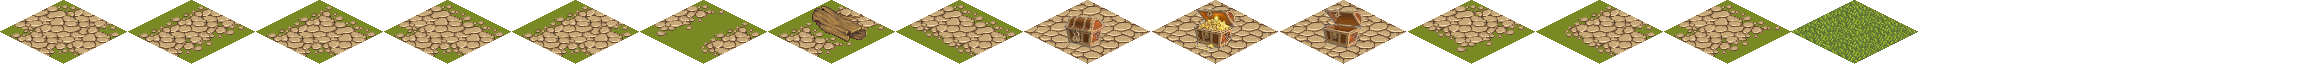
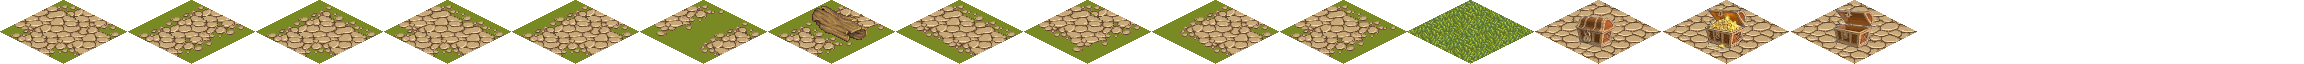
cards adicionados

Changed region(s): [[0.4375, 0.0312, 0.8438, 0.9688]]

diff --git a/Jogo_Gb/GB/Sabertooth/main.cpp b/Jogo_Gb/GB/Sabertooth/main.cpp
@@ -12,6 +12,7 @@
 #include <string>
 #include "stb_image.h"
 #include <vector>
+#include <list> 
 
 using namespace std;
 
@@ -170,19 +171,33 @@ int main() {
 	int x = 0;
 
 	float tileMap[11][11];
+	int tabuleiro[11][11];
+	int possivel[11][11];
 	srand(time(NULL));
 	for (int y = 0; y < qtdX; y++) {
 		for (int x = 0; x < qtdX; x++)
 		{
-			tileMap[y][x] = 14;
+			tileMap[y][x] = 11;
+			tabuleiro[y][x] = 0;
+			possivel[y][x] = 0;
 		}
 	}
-	tileMap[1][5] = 0;
-	tileMap[9][5] = 8;
-	tileMap[9][2] = 8;
-	tileMap[9][8] = 8;
+	possivel[1][4] = 1;
+	possivel[1][6] = 1;
+	possivel[0][5] = 1;
+	possivel[2][5] = 1;
 
-	vector<string> tabuleiro;
+	tileMap[1][5] = 0;
+	tileMap[9][5] = 12;
+	tileMap[9][2] = 12;
+	tileMap[9][8] = 12;
+
+	tabuleiro[1][5] = 1;
+	tabuleiro[9][5] = 1;
+	tabuleiro[9][2] = 1;
+	tabuleiro[9][8] = 1;
+
+	
 
 	double xpos = 0;
 	double ypos = 0;
@@ -217,18 +232,12 @@ int main() {
 			
 			for (int y = 0; y < qtdX; y++) {
 				for (int x = 0; x < qtdX; x++) {
-					string strl = std::to_string(y);
-					string strc = std::to_string(x);
-					string strx = std::to_string(x * (RW / 2.0f) + y * (RW / 2.0f));
-					string stry = std::to_string((x * (RH / 2.0f) - y * (RH / 2.0f) + wHeight / 2.0f));
 
-					string strPos("l:" + strl + ";" + "c:" + strc + ";" + "x:" + strx + ";" + "y:" + stry + ";");
-					
-					tabuleiro.push_back(strPos);
-
+					float xi = x * (RW / 2.0f) + y * (RW / 2.0f);
+					float yi = (x * (RH / 2.0f) - y * (RH / 2.0f) + wHeight / 2.0f);
 
 					glm::mat4 transform = glm::mat4(1.0f);
-					transform = glm::translate(transform, glm::vec3((x * (RW / 2.0f) + y * (RW / 2.0f)), ((x * (RH / 2.0f) - y * (RH / 2.0f) + wHeight / 2.0f)), 0.0f));
+					transform = glm::translate(transform, glm::vec3(xi, yi, 0.0f));
 					glUniformMatrix4fv(glGetUniformLocation(shdr, "trans"), 1, GL_FALSE, glm::value_ptr(transform));
 									   
 					float var = tileMap[y][x] * (1.0f / 18.0f);
@@ -248,8 +257,6 @@ int main() {
 					nxPos = 0;
 				}
 			}
-		
-		
 
 		if (glfwGetKey(window, GLFW_KEY_ESCAPE) == GLFW_PRESS)
 			glfwSetWindowShouldClose(window, true);
@@ -259,23 +266,79 @@ int main() {
 			//getting cursor position
 			
 			glfwGetCursorPos(window, &xpos, &ypos);
-			nxPos = (xpos - nyPos * RW / 2) / (RW/ 2);
-			nyPos = (nxPos*RH / 2 + ypos) / (RH );
 
-			//nTotal = nxPos + nyPos * 20;
-			//ypos = wHeight - ypos;
-			int linha = -1*(11-(((xpos / (RW / 2.0f)) + (ypos / (RH / 2.0F)))/2));
-			int coluna =  11-(-(xpos / (RW / 2.0f)) + (ypos / (RH / 2.0F)))/2;
-			
-			bool posI = (coluna == 1 && linha == 5);
-			bool tes1 = (coluna == 9 && linha == 5);
-			bool tes2 = (coluna == 9 && linha == 2);
-			bool tes3 = (coluna == 9 && linha == 8);
+			int mouseLinha = -1 * (11 - (((xpos / (RW / 2.0f)) + (ypos / (RH / 2.0F))) / 2));
+			int mouseColuna = 11 - (-(xpos / (RW / 2.0f)) + (ypos / (RH / 2.0F))) / 2;
 
-			if(!tes1 && !tes2 && !tes3 && !posI)
-				tileMap[coluna][linha] = 5;
+			bool tes1 = (mouseColuna == 9 && mouseLinha == 5);
+			bool tes2 = (mouseColuna == 9 && mouseLinha == 2);
+			bool tes3 = (mouseColuna == 9 && mouseLinha == 8);
 
-			std::cout << "linha: " << linha << " coluna: " << coluna << std::endl;
+			if (!tes1 && !tes2 && !tes3 && tabuleiro[mouseColuna][mouseLinha] == 0 && possivel[mouseColuna][mouseLinha] == 1) {
+				int card = 7;//rand() % 11;
+				tileMap[mouseColuna][mouseLinha] = card;
+				tabuleiro[mouseColuna][mouseLinha] = 1;
+				//card inicial
+				if (card == 0) {
+					possivel[mouseColuna][mouseLinha - 1] = 1;
+					possivel[mouseColuna][mouseLinha + 1] = 1;
+					possivel[mouseColuna + 1][mouseLinha] = 1;
+					possivel[mouseColuna - 1][mouseLinha] = 1;
+				}
+				//car reto y 
+				else if(card == 1) {
+					possivel[mouseColuna-1][mouseLinha] = 1;
+					possivel[mouseColuna+1][mouseLinha] = 1;
+
+					possivel[mouseColuna][mouseLinha - 1] = 0;
+					possivel[mouseColuna][mouseLinha + 1] = 0;
+				}
+				//card vira a direita
+				else if (card == 2) {
+					possivel[mouseColuna][mouseLinha+1] = 1;
+					possivel[mouseColuna - 1][mouseLinha] = 1;
+
+					possivel[mouseColuna + 1][mouseLinha] = 0;
+					possivel[mouseColuna][mouseLinha - 1] = 0;
+				}
+				//card em t para os lados
+				else if (card == 3) {
+					possivel[mouseColuna][mouseLinha + 1] = 1;
+					possivel[mouseColuna][mouseLinha - 1] = 1;
+					possivel[mouseColuna-1][mouseLinha] = 1;
+
+					possivel[mouseColuna + 1][mouseLinha] = 0;
+				}
+				//card em t em y
+				else if (card == 4) {
+					possivel[mouseColuna][mouseLinha + 1] = 1;
+					possivel[mouseColuna][mouseLinha - 1] = 1;
+					possivel[mouseColuna - 1][mouseLinha] = 1;
+					possivel[mouseColuna + 1][mouseLinha] = 1;
+
+					possivel[mouseColuna][mouseLinha - 1] = 0;
+				}
+				//card tranca caminho em x
+				else if (card == 5) {
+					possivel[mouseColuna][mouseLinha + 1] = 0;
+					possivel[mouseColuna][mouseLinha - 1] = 0;
+				}
+				//card tranca caminho em y
+				else if (card == 6) {
+					possivel[mouseColuna - 1][mouseLinha] = 0;
+					possivel[mouseColuna + 1][mouseLinha] = 0;
+				}
+				//car reto x
+				else if (card == 7) {
+					possivel[mouseColuna - 1][mouseLinha] = 0;
+					possivel[mouseColuna + 1][mouseLinha] = 0;
+
+					possivel[mouseColuna][mouseLinha - 1] = 1;
+					possivel[mouseColuna][mouseLinha + 1] = 1;
+				}
+			}
+
+			std::cout << "linha: " << mouseLinha << " coluna: " << mouseColuna << std::endl;
 
 			delay(250);
 		}
